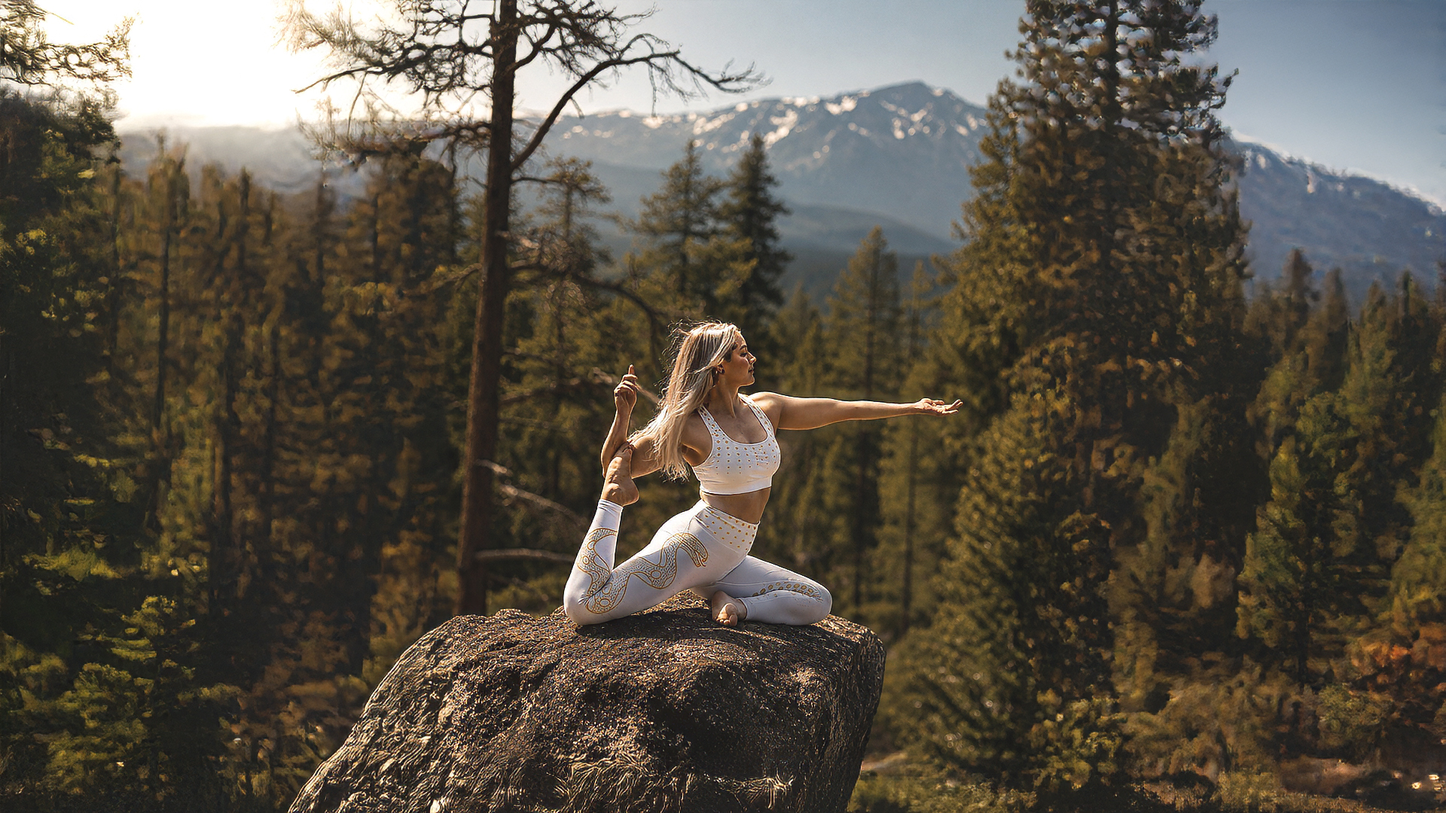
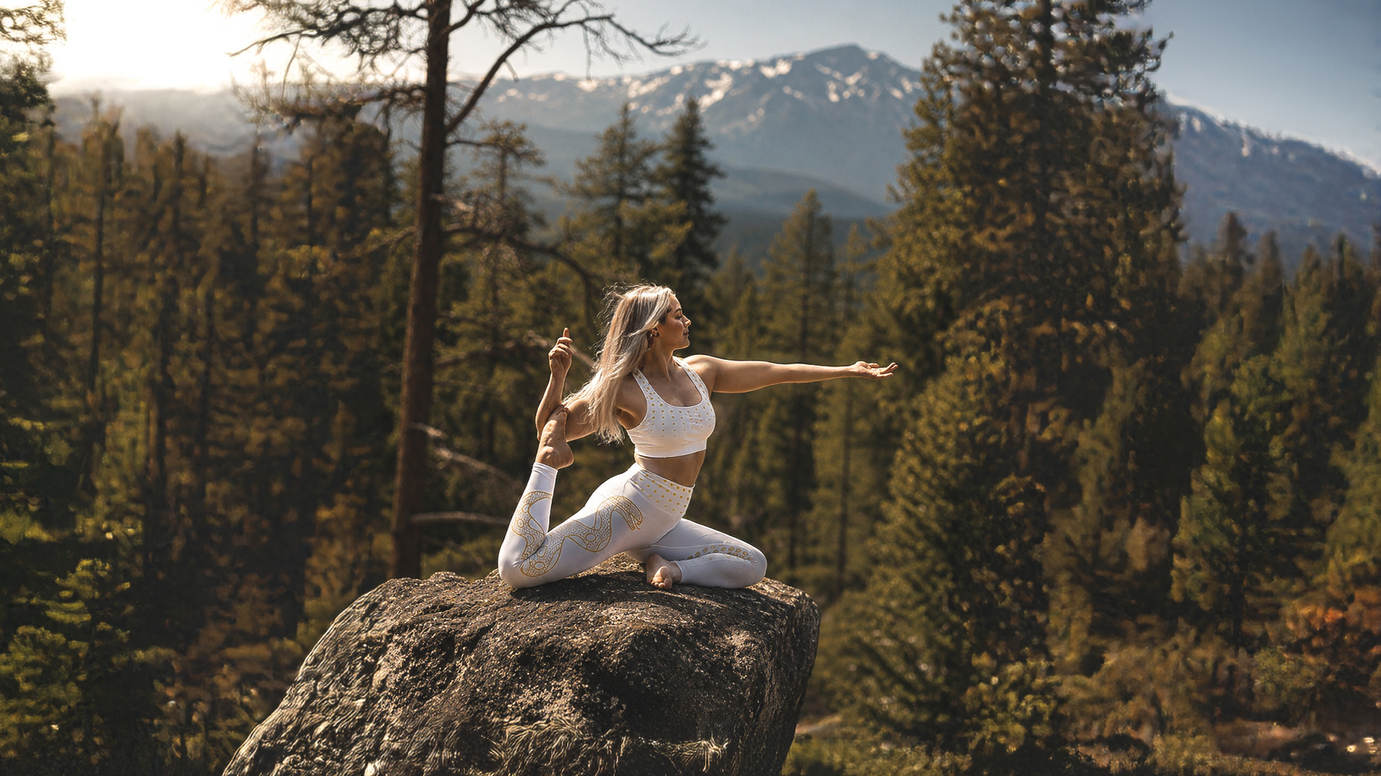
Add randomized homepage hero imag

diff --git a/projects/client-lebe/src/partials/home/_hero.html b/projects/client-lebe/src/partials/home/_hero.html
@@ -1,7 +1,7 @@
 <main class="bg-[#e9e9e9] text-[#050505]">
   <!-- Hero Section -->
   <section class="relative flex min-h-screen items-end overflow-hidden bg-black text-white">
-    <img src="./assets/images/lebeHero1.jpg" alt="LEBE campaign hero image"
+    <img src="./assets/images/lebeHero1.jpg" alt="LEBE campaign hero image" data-random-hero
       class="absolute inset-0 h-full w-full object-cover" />
     <div class="absolute inset-0 bg-gradient-to-t from-black/35 via-transparent to-black/10"></div>
     <div class="relative w-full pb-12 pt-32 md:pb-14">
@@ -39,6 +39,19 @@
     </div>
   </section>
 </main>
+
+<script>
+  (() => {
+    const hero = document.querySelector('[data-random-hero]');
+    if (!hero) return;
+
+    const images = [
+      './assets/images/lebeHero1.jpg',
+      './assets/images/lebeHero2.jpg',
+    ];
+    hero.src = images[Math.floor(Math.random() * images.length)];
+  })();
+</script>
 
 <script type="application/ld+json">
 {
